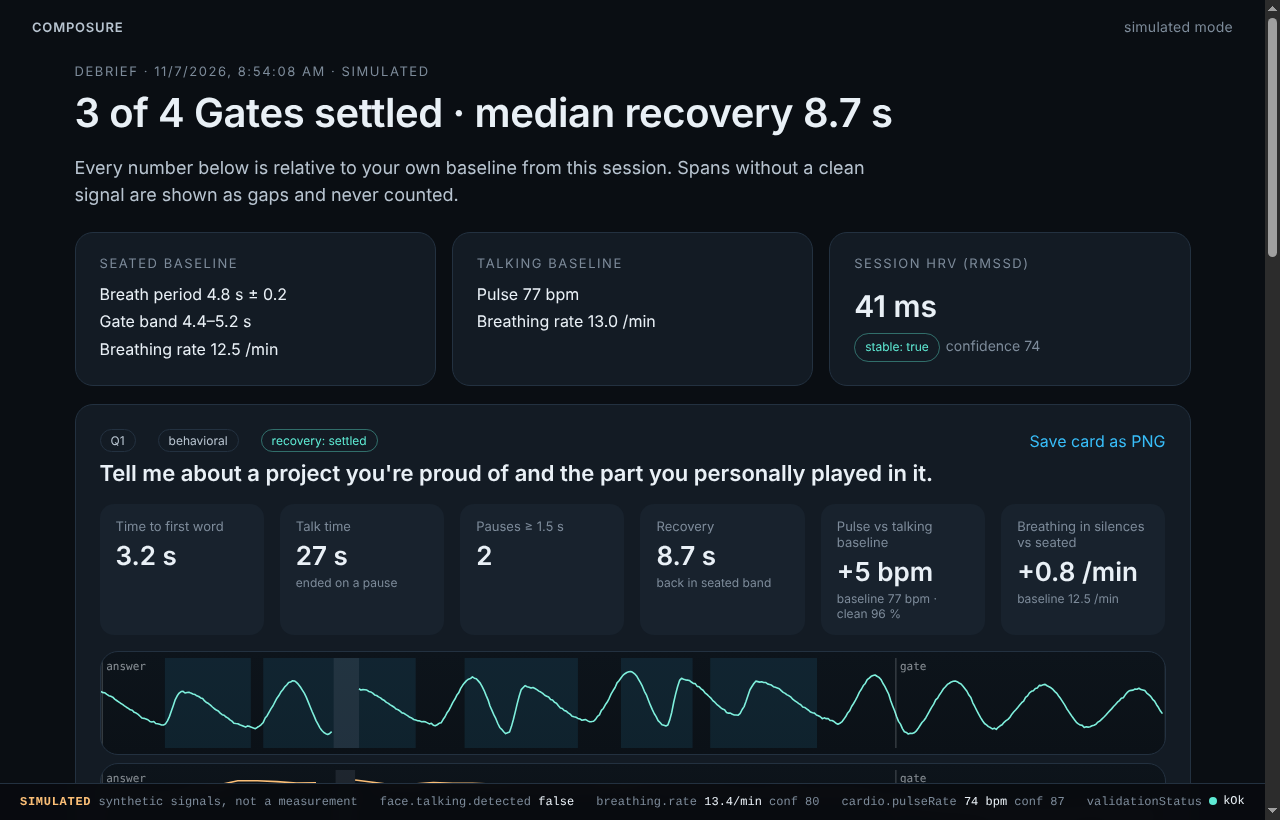
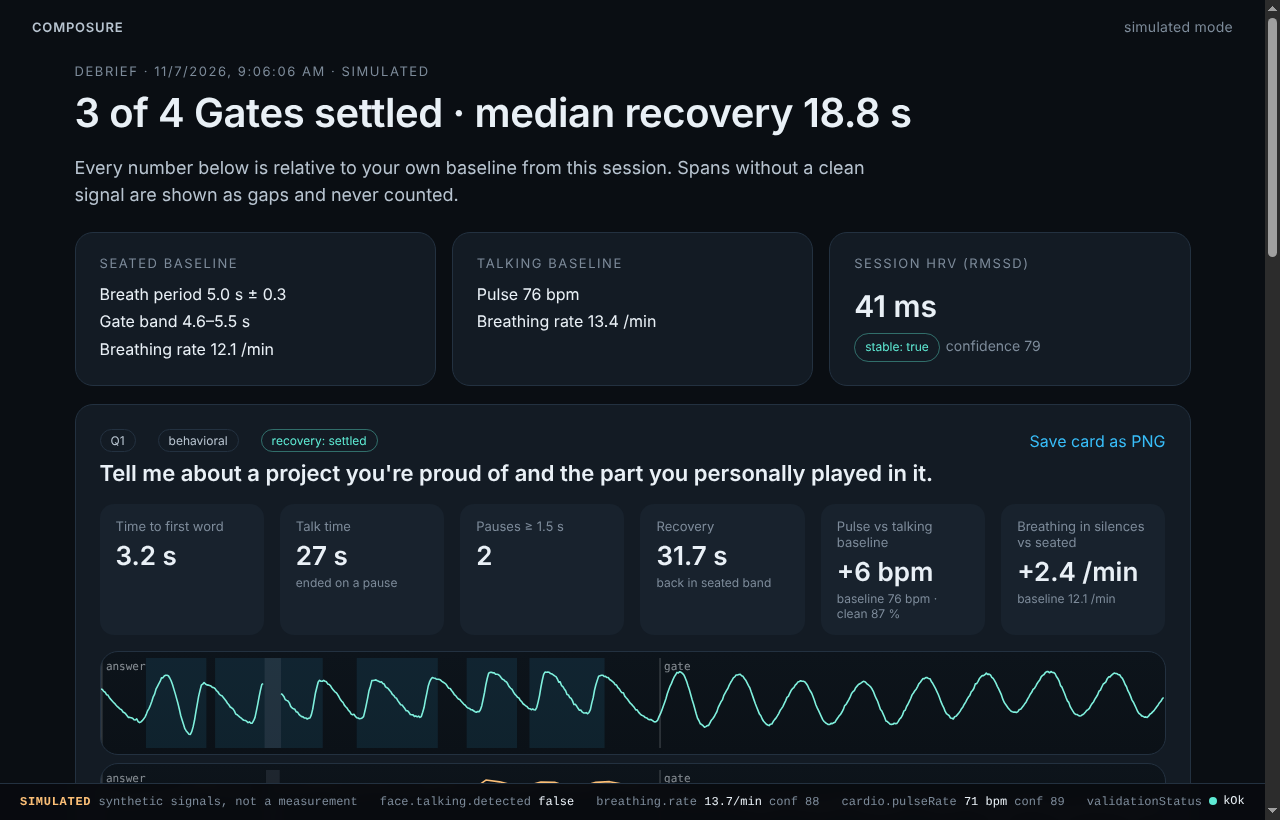
Refresh screenshots; record simulator realism decisions
Claude-Session: https://claude.ai/code/session_01B9reVzjSikEYLjUDHW7Pp1

diff --git a/DECISIONS.md b/DECISIONS.md
@@ -406,3 +406,15 @@ with regression tests where testable:
   through the end of an answer cannot leak into the next question.
 - A fatal SDK error after the debrief exists no longer discards it; the
   source is stopped and the error is shown as a banner.
+
+## D-036 Simulator realism additions
+
+Beyond the brief's ranges (breath period 3-6 s, pulse 55-100 bpm with
+confidence dips while talking), the simulator now includes occasional sighs
+(about 1 in 25 resting breaths is 1.8× deeper and 1.3× slower, as in real
+seated breathing; they exercise the Gate's deep-breath check) and respiratory
+sinus arrhythmia (pulse ±2 bpm with the breath cycle). Across seeds 1-6 the
+demo scenario produces: Gate 1 settles in 11-22 s, the hard question gets
+"Take your time." and settles in 8-18 s, the low-signal answer shows "not
+enough clean signal" for pulse, the slow settle times out at 45 s, and the
+long answer gets the 2:30 cut-in.
